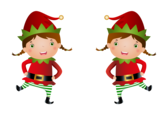
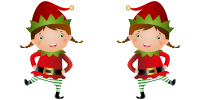
includes background image and new models for gbm, resizes candycanes

Changed region(s): [[0.5655, 0.0, 0.9524, 0.99], [0.0595, 0.0, 0.4464, 0.99], [0.7143, 0.42, 0.7738, 0.48]]

diff --git a/src/Weapon.js b/src/Weapon.js
@@ -1,6 +1,8 @@
 class Weapon {
   constructor(x, y, game) {
     this.game = game;
+    this.canvas = document.getElementById("canvas");
+    this.ctx = this.canvas.getContext("2d");
 
     this.x = x;
     this.y = y;
@@ -16,11 +18,36 @@ class Weapon {
     this.currentFire = 0;
 
     this.isActive = true;
+
+    this.currentFrame = 0;
+    this.totalFrames = 2;
+
+    this.spriteHeight = 100;
+    this.spriteWidth = 150 / 2;
+    this.srcX = this.currentFrame * this.spriteWidth;
+    this.srcY = 0;
+
+    this.animTick = 30;
+    this.currentAnimTick = 0;
   }
+
   draw() {
     let img = new Image();
     img.src = ('./assets/gbm.png');
-    this.game.ctx.drawImage(img, this.x, this.y);
+
+    if (this.currentAnimTick < this.animTick) {
+      this.currentAnimTick++;
+    } else {
+      if (this.currentFrame < this.totalFrames - 1) {
+        this.currentFrame++;
+      } else {
+        this.currentFrame = 0;
+      }
+      this.currentAnimTick = 0;
+    }
+
+    this.srcX = this.currentFrame * this.spriteWidth;
+    this.ctx.drawImage(img, this.srcX, this.srcY, this.spriteWidth, this.spriteHeight, this.x, this.y, this.spriteWidth, this.spriteHeight);
   }
 
   fire() {

diff --git a/src/collision.js b/src/collision.js
@@ -15,7 +15,7 @@ collision = {
 
 	elfHitsBullet: (elf, game) => {
 		game.bullets.forEach((bullet) => {
-			if(elf.x + elf.spriteWidth >= bullet.x && elf.x <= bullet.x && elf.y == bullet.y) {
+			if(elf.x + elf.spriteWidth >= bullet.x + 50 && elf.x <= bullet.x + 50 && elf.y == bullet.y) {
 				game.elfUh.play();
 				game.bulletHit.play();
 				game.elves.splice(game.elves.indexOf(elf), 1);

diff --git a/src/game.js b/src/game.js
@@ -12,6 +12,11 @@ class Game {
 		this.bulletHit = new Sound("assets/audio/BulletHit.mp3")
 		this.elfUh = new Sound("assets/audio/elfUh.wav")
 
+		let img = new Image();
+		img.src = ("./assets/bg_main.jpg");
+		img.onload = function () {
+			ctx.drawImage(img, 0, 0, 800, 600, 0, 0, 800, 600)
+		}  
 		this.update();
 	}
 

diff --git a/src/snow_complex.js b/src/snow_complex.js
@@ -18,7 +18,7 @@ var snow = (function createSnow() {
   
   function draw() { 
     ctx.clearRect(0, 0, canvas.width, canvas.height);
-    ctx.fillStyle = "rgba(255, 255, 255, 0.8)";
+    ctx.fillStyle = "rgba(255, 255, 255, 0)";
 
     ctx.beginPath();
     for (let i = 0; i < maxFlakes; i++) {

diff --git a/src/elf.js b/src/elf.js
@@ -11,7 +11,7 @@ class Elf {
     this.totalFrames = 2;
 
     this.spriteHeight = 100;
-    this.spriteWidth = 146 / 2;
+    this.spriteWidth = 200 / 2;
     this.srcX = this.currentFrame * this.spriteWidth;
     this.srcY = 0;
 

diff --git a/src/bullet.js b/src/bullet.js
@@ -10,7 +10,7 @@ class Bullet {
     this.speed = 3;
     
     this.spriteHeight = 100;
-    this.spriteWidth = 400 / 4;
+    this.spriteWidth = 200 / 4;
     this.srcX = 0;
     this.srcY = 0;
 
